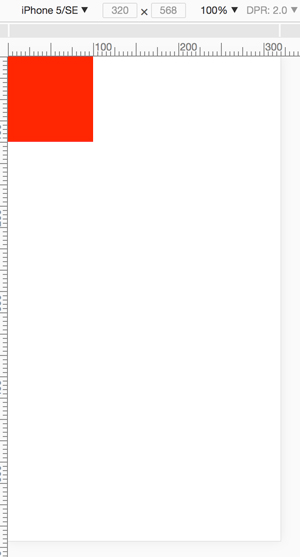
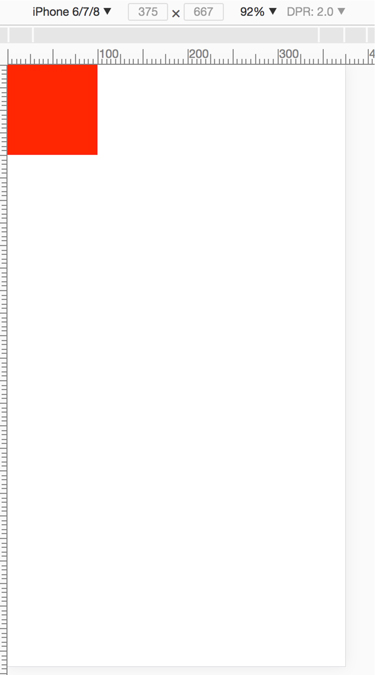
save

diff --git a/前端常见知识点扫盲/移动端适配.md b/前端常见知识点扫盲/移动端适配.md
@@ -174,9 +174,52 @@ c、适配各种不同的dpr值的实现
 >	</html>
 >```  
 4）、显示的宽度，现在一致了，但是有了新的问题      
-iphone6显示：           
+iphone6显示：
 > ![iphone6显示](../static/imgs/css/i6.jpg "iphone6显示")       
-iphone5显示：               
-> ![iphone5显示](../static/imgs/css/i5.jpg "iphone5显示")       
+iphone5显示：
+> ![iphone5显示](../static/imgs/css/i5.jpg "iphone5显示")    
+
+问题： 宽度一致了，但是占屏幕的比例不对了~~     
+
+d、引入rem                
+1）、定义           
+> rem是相对尺寸单位，相对于html标签字体大小的单位，举个例子：            
+> 如果html的font-size = 16px;          
+> 则：1rem = 18px（重点：rem是基于html标签的字体大小的）。      
+2）、动态设置html字体大小：       
+> document.documentElement.style.fontSize = document.documentElement.clientWidth / 10 + 'px';     
+> 以iphone6为例，html标签的font-size的值就等于 750 / 10 = 75px 了，这样 1rem = 75px，所以红色方块300px换算为rem单位就是 300 / 75 = 4rem;        
+> 因为iphone5的设备像素为640，所以iphone的html标签的font-size的值为 640 / 10 = 64px，所以 1rem = 64px，所以在iphone6中显示为300px的元素在iphone5中会显示为 4 * 64px；         
+> 这样，在不同设备中就实现了让元素等比缩放从而不影响布局。而上面的方法也是手机淘宝所用的方法。所以，现在你只需要将你测量的尺寸数据除以75就转换成了rem单位，如果是iPhone5就要除以64，即除以你动态设置的font-size的值。          
+3）、代码实现：
+>```
+>	<html>
+>	<head>
+>	<title></title>
+>		<meta charset="utf-8" />
+>		<meta name="viewport" content="" />
+>		<style>
+>			body{
+>				margin: 0;
+>				padding: 0;
+>			}
+>			.box{
+>				width: 300px;
+>				height: 300px;
+>				background: red;
+>			}
+>		</style>
+>	</head>
+>	<body>
+>	    <div class="box"></div>
+>	</body>
+>	<script>
+>	var scale = 1 / window.devicePixelRatio;
+>	document.querySelector('meta[name="viewport"]').setAttribute('content','width=device-width,initial-scale=' + scale + ', maximum-scale=' + scale + ', minimum-scale=' + scale + ', user-scalable=no');
+>	document.documentElement.style.fontSize = document.documentElement.clientWidth / 10 + 'px';
+>	</script>
+>	</html>
+>``` 
+
 
 
